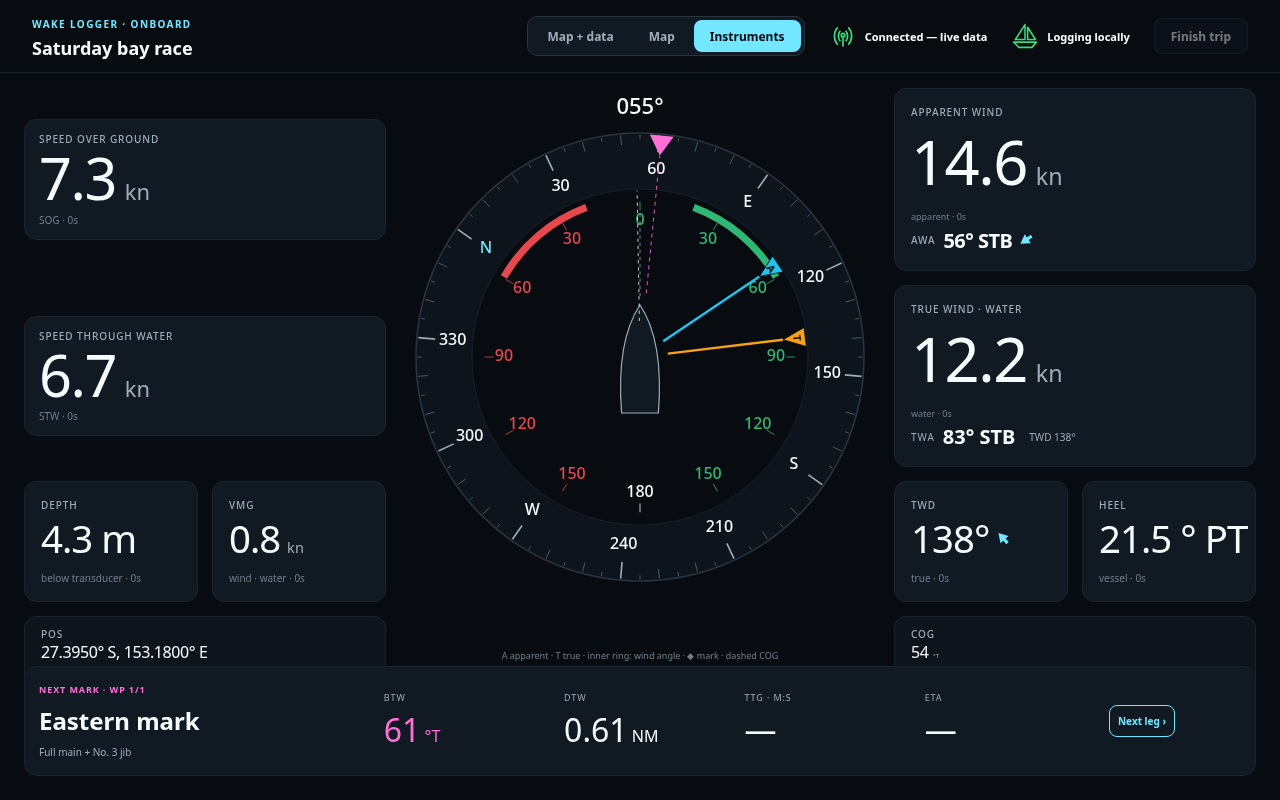
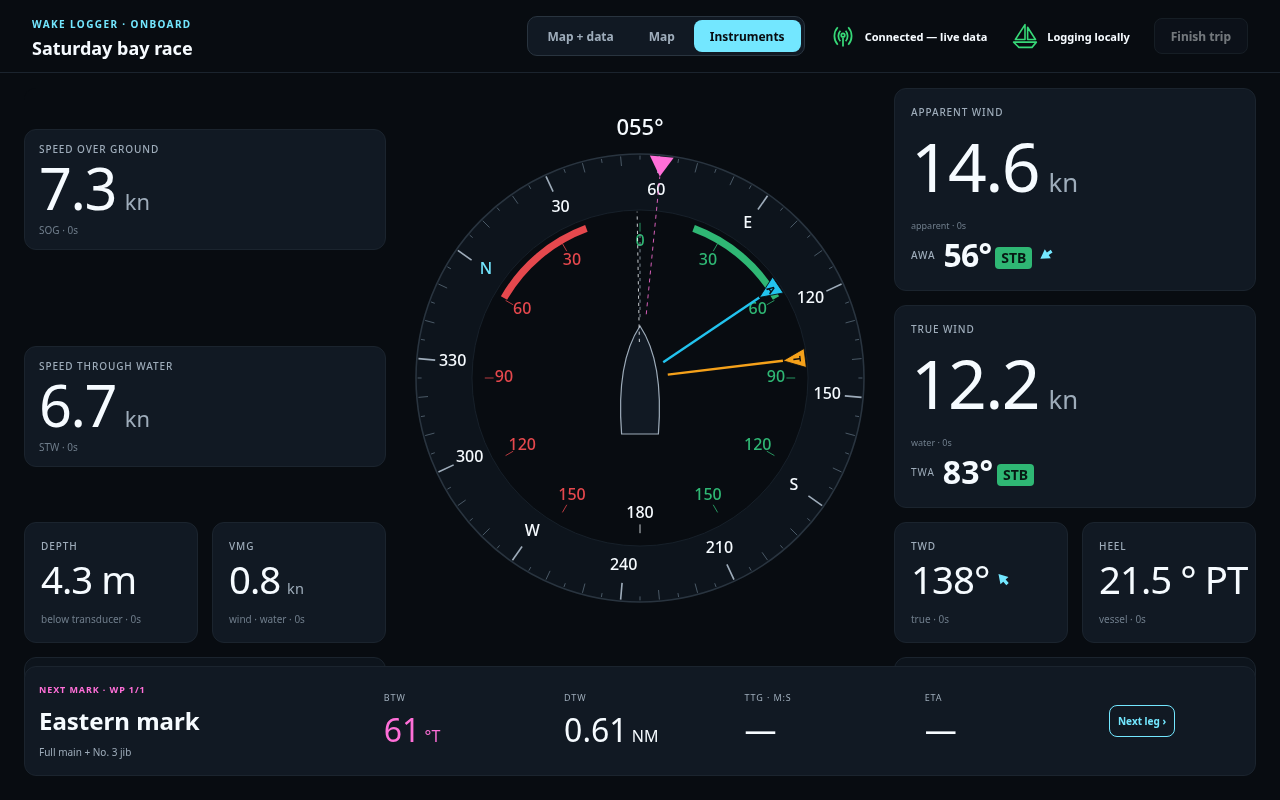
Prepare beta.18 with release notes and refreshed store screenshots

diff --git a/docs/releases/0.2.0-beta.18.md b/docs/releases/0.2.0-beta.18.md
@@ -1,0 +1,13 @@
+# Wake Logger for Signal K 0.2.0-beta.18
+
+Faint animated downwind arrows now cover **Map** and **Map + data** on desktop and phone. Their size, weight and movement reflect true-wind strength, with gradual transitions between updates. Calm wind is labelled; old wind readings stop moving and then disappear. Reduced-motion settings are respected.
+
+Choose **Change next mark** in Race to open a mark picker, or tap a course mark on the map to preview its distance and bearing. Confirm **Set point** or **Set as next mark** to change the target. **Advance point** moves to the mark after the current target. Opening the picker or highlighting a mark leaves navigation unchanged. The existing Course controls remain available.
+
+AWA and TWA values are larger, while wind speed remains the main reading. Phones show a larger TWD beside true-wind speed. The true-wind heading is simpler and the cloud icon is centred. Upload status shows acknowledged-sample progress and an estimated time remaining when enough information is available.
+
+Saved trips can begin uploading while optional course synchronisation is unavailable. Upload recovery preserves the age of retried data, and larger telemetry profiles use compatible batches. Unreadable route responses remain visible as errors and existing navigation stays protected.
+
+Update Wake Logger in the Signal K App Store, restart Signal K if prompted, and reload the onboard app. Pairing, settings and recorded trips are retained. Fresh sensor data is required for live readings and wind arrows. Prepare local charts and a matching Race Pack before relying on offline chart and planning coverage.
+
+This remains a beta release. During beta testing, npm's `latest` and `beta` aliases point to the same vetted prerelease for Signal K App Store discovery.

diff --git a/CHANGELOG.md b/CHANGELOG.md
@@ -2,6 +2,8 @@
 
 ## Unreleased
 
+## [0.2.0-beta.18] - 2026-11-16
+
 - Larger AWA/TWA readings and a larger phone TWD readout keep wind speed as the main value. The true-wind heading is simpler and the cloud icon is centred.
 - Faint animated downwind arrows appear across Map and Map + data, with wind-strength styling, stale-data handling and reduced-motion support.
 - Choose the next mark from the Race panel or directly from a map mark. Existing Set point / Advance point controls remain in Course, without a redundant activation section while the course is active.
@@ -10,6 +12,8 @@
 - Upload recovery keeps the original age of retried data, so delayed confirmations do not look like a fast connection.
 - Unreadable route responses no longer count as an empty course target. Existing navigation remains protected.
 - Larger telemetry profiles upload in compatible batches without losing the end of a batch.
+
+Update the plugin, restart Signal K if prompted, and reload the onboard app. Pairing, settings and recorded trips are retained. Read the [release notes](docs/releases/0.2.0-beta.18.md) for details.
 
 ## [0.2.0-beta.17] - 2026-11-15
 
